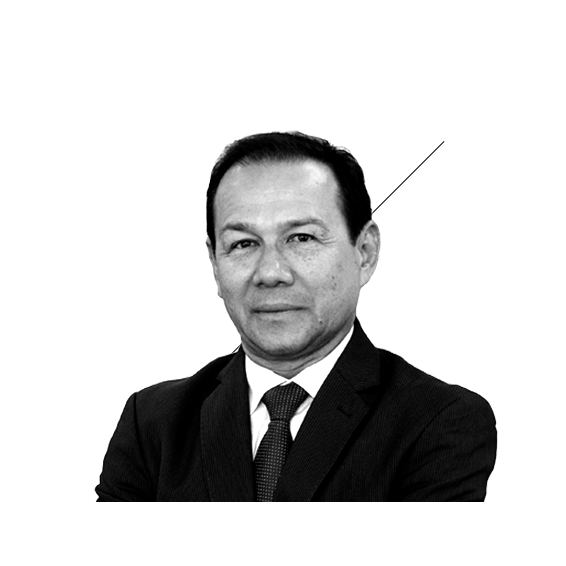
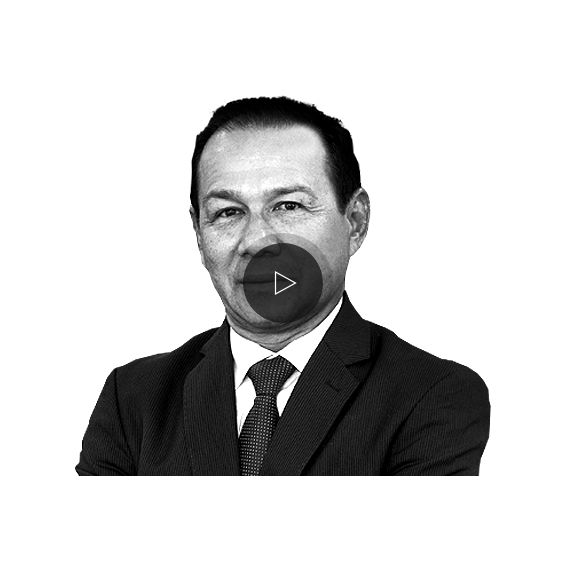
movas capas e style

Changed region(s): [[0.1201, 0.1502, 0.9011, 0.9011]]

diff --git a/css/styles.css b/css/styles.css
@@ -442,11 +442,7 @@ html {
     transition: .35s;
     max-width: 65%;
     background-color: transparent;
-<<<<<<< HEAD
     z-index:1;
-=======
-    z-index: 1;
->>>>>>> d1bfd19f79b66cdc2d55244bf653db62b4ad251e
 }
 
 .float-title-alt {
@@ -460,11 +456,7 @@ html {
     font-weight: 400;
     transition: .35s;
     background-color: transparent;
-<<<<<<< HEAD
     z-index:1;
-=======
-    z-index: 1;
->>>>>>> d1bfd19f79b66cdc2d55244bf653db62b4ad251e
 }
 
 .float-title-alt strong {
@@ -538,10 +530,6 @@ html {
     width: auto;
 }
 
-<<<<<<< HEAD
-
-=======
->>>>>>> d1bfd19f79b66cdc2d55244bf653db62b4ad251e
 .capital {
     width: auto;
     height: 50%;
@@ -1012,6 +1000,7 @@ html {
 
     .alternate {
         background: black;
+        padding-top: 5%;
         min-width: 84vh!important;
         max-width: 360px!important;
         min-height: 456px!important;

diff --git a/index.html b/index.html
@@ -2262,7 +2262,7 @@
 
 
                 <div id="video-relogio" class="picture-item alternate center" data-groups='["todos"]'>
-                    <img class="play-button2 play" src="images/thumb/relogio_thumb.png">
+                    <img class="play-button2 play" src="images/thumb/relogio_thumb.jpg">
                 </div>
 
                 <!--FIM PUBLICAÇÃO-->
